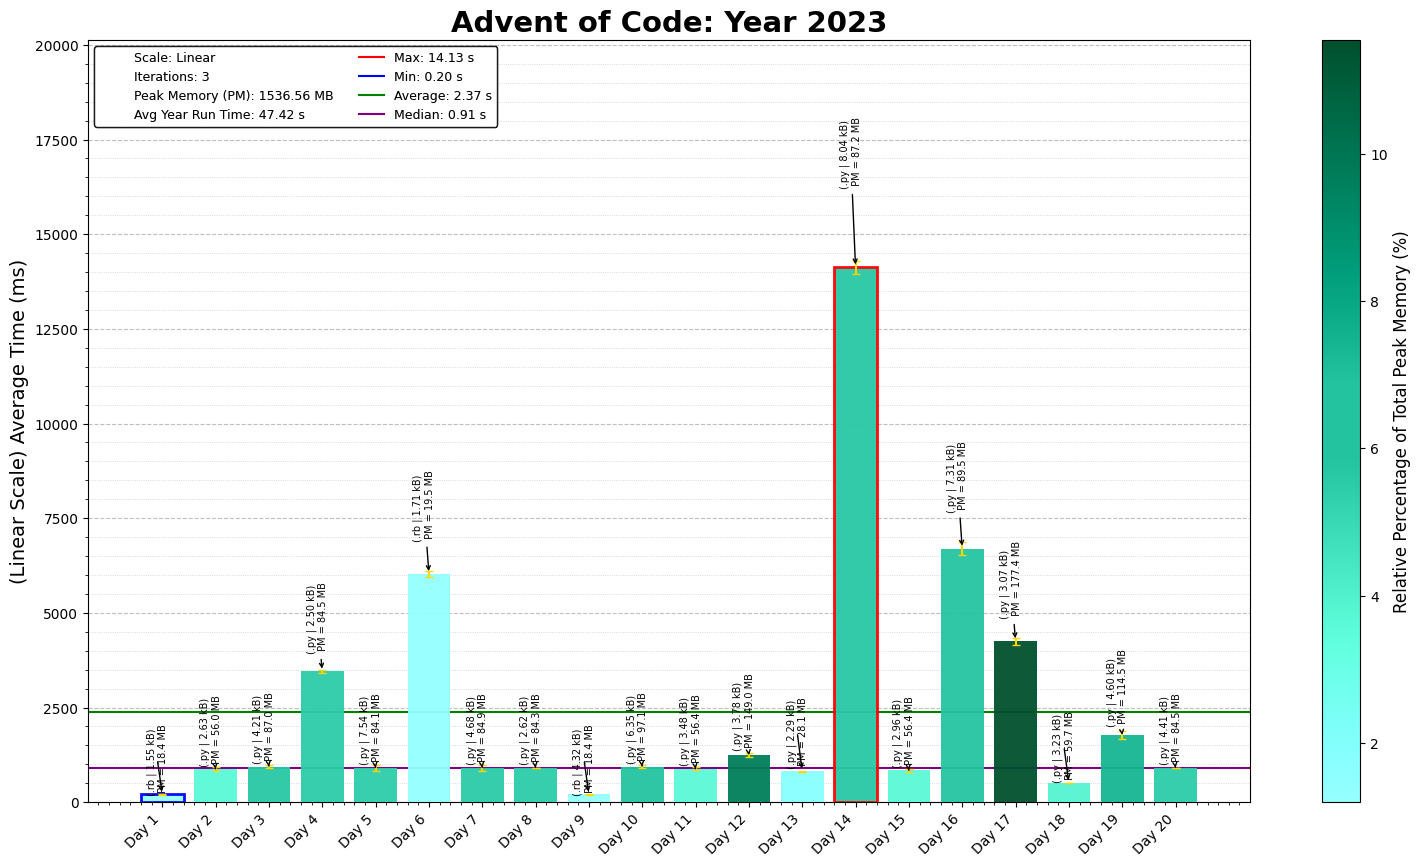
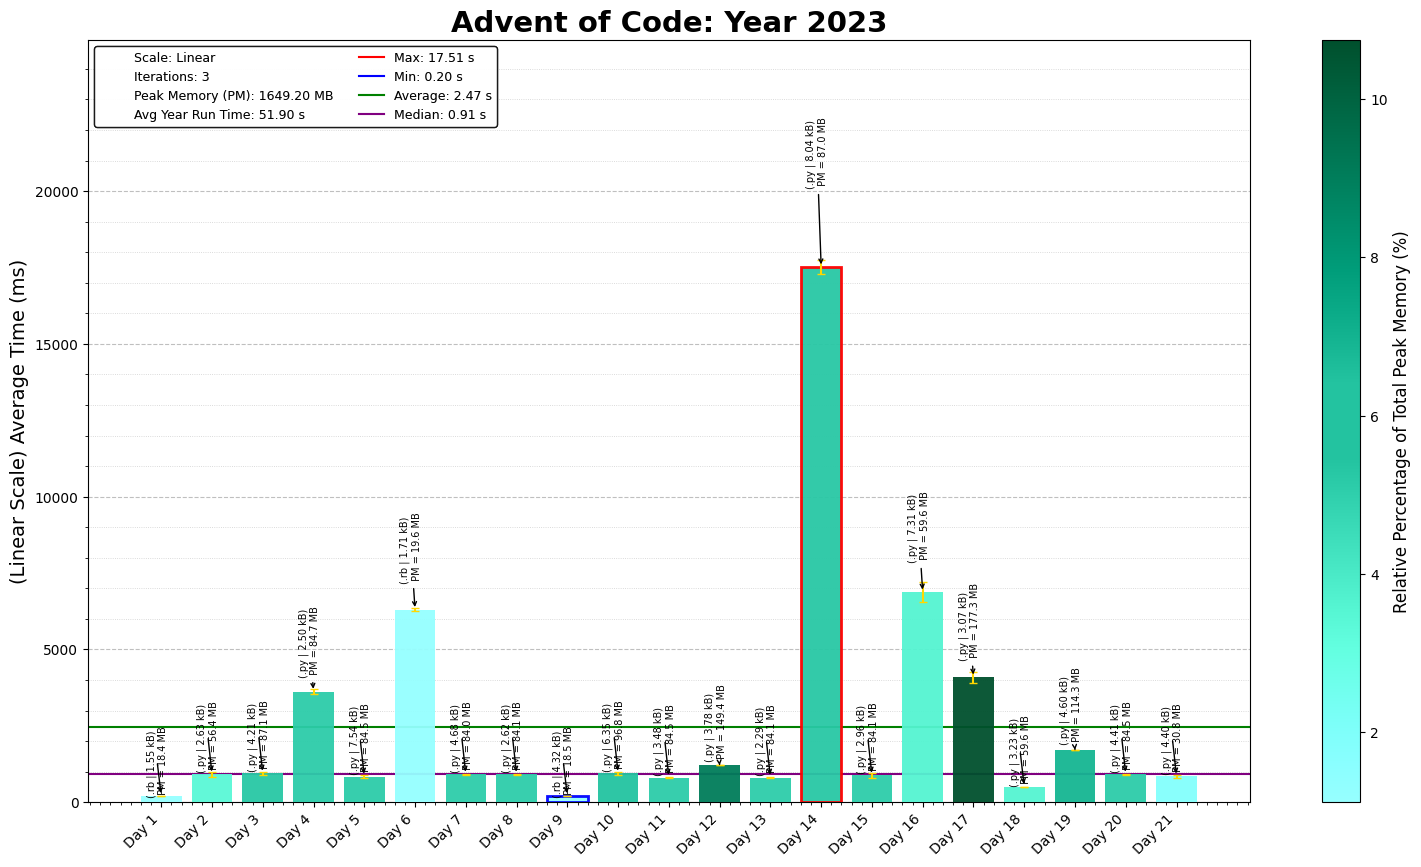
2023 Day 21 P1

diff --git a/2023/21/2023Day21.py b/2023/21/2023Day21.py
@@ -1,0 +1,130 @@
+"""Advent of Code - Day 21, Year 2023
+Solution Started: Jan 11, 2025
+Puzzle Link: https://adventofcode.com/2023/day/21
+Solution by: abbasmoosajee07
+Brief: [Lost Gardener]
+"""
+
+#!/usr/bin/env python3
+
+import os, re, copy, time
+import numpy as np
+import pandas as pd
+import matplotlib.pyplot as plt
+from collections import deque
+start_time = time.time()
+
+# Load the input data from the specified file path
+D21_file = "Day21_input.txt"
+D21_file_path = os.path.join(os.path.dirname(os.path.abspath(__file__)), D21_file)
+
+# Read and sort input data into a grid
+with open(D21_file_path) as file:
+    input_data = file.read().strip().split('\n')
+
+def parse_grid(init_grid: list) -> tuple[set, tuple]:
+    rocks = set()
+
+    # Initialize boundaries with extreme values
+    min_row, max_row = float('inf'), -float('inf')
+    min_col, max_col = float('inf'), -float('inf')
+
+    # Iterate through the grid to update each tile to dict and update bounds
+    for row_no, row in enumerate(init_grid):
+        for col_no, tile in enumerate(row):
+            if tile == '#':
+                rocks.add((row_no, col_no))
+            elif tile == 'S':
+                start = (row_no, col_no)
+
+            # Update the boundaries
+            min_row = min(min_row, row_no)
+            max_row = max(max_row, row_no)
+            min_col = min(min_col, col_no)
+            max_col = max(max_col, col_no)
+
+    # Define the space bounds
+    grid_bounds = (min_row, max_row + 1, min_col, max_col + 1)
+
+    return rocks, grid_bounds, start
+
+def print_grid(ROCKS: set, grid_bounds: tuple, movements: dict):
+    min_row, max_row, min_col, max_col = grid_bounds
+    grid_list = []
+
+    for row_no in range(min_row, max_row):
+        row = ''
+        for col_no in range(min_col, max_col):
+            pos = (row_no, col_no)
+
+            if pos in ROCKS:
+                row += '#'
+            elif pos in movements.keys():
+                row += movements[pos]
+            else:
+                row += '.'
+
+        grid_list.append(row)
+
+    # Print grid
+    print("\nCurrent Grid:")
+    for row in grid_list:
+        print("".join(row))
+    print()
+
+def build_graph(ROCKS_SET: set[tuple], BOUNDARIES: tuple):
+    def get_neighbors(init_pos: tuple) -> set:
+        DIRECTIONS = [(-1, 0), (1, 0), (0, -1), (0, 1)]
+        neighbors = set()
+        init_row, init_col = init_pos
+        for dr, dc in DIRECTIONS:
+            next_row, next_col = init_row + dr, init_col + dc
+            if (
+                MIN_ROW <= next_row < MAX_ROW and
+                MIN_COL <= next_col < MAX_COL and
+                (next_row, next_col) not in ROCKS_SET
+            ):
+                neighbors.add((next_row, next_col))
+        return neighbors
+    graph_network = {}
+    MIN_ROW, MAX_ROW, MIN_COL, MAX_COL = BOUNDARIES
+    for row in range(MIN_ROW, MAX_ROW):
+        for col in range(MIN_COL, MAX_COL):
+            pos = (row, col)
+            neighbors = get_neighbors(pos)
+            graph_network[pos] = neighbors
+    return graph_network
+
+def traverse_garden(garden_graph: dict, start: tuple, target_steps: int = 64) -> dict:
+    visited = set()
+    queue = deque([(start, 0)])  # Use deque for efficient queue operations
+    possible_plants = {start: 'S'}
+
+    while queue:
+        current_pos, steps = queue.popleft()
+        if steps == target_steps:
+            break
+
+        steps += 1
+        visited.add(current_pos)
+        # Get the valid neighboring positions (plants) from the garden graph
+        neighbor_plants = garden_graph.get(current_pos, [])
+
+        for plant_pos in neighbor_plants:
+            if plant_pos not in visited:
+                visited.add(plant_pos)
+                queue.append((plant_pos, steps))
+                # Increment total for every even step
+                if steps % 2 == 0:
+                    possible_plants[plant_pos] = 'O'
+    return possible_plants
+
+test_input = ['...........', '.....###.#.', '.###.##..#.', '..#.#...#..', '....#.#....', '.##..S####.', '.##..#...#.', '.......##..', '.##.#.####.', '.##..##.##.', '...........']
+
+ROCKS_SET, BOUNDARIES, start_pos = parse_grid(input_data)
+garden_graph = build_graph(ROCKS_SET, BOUNDARIES)
+plants_reached = traverse_garden(garden_graph, start_pos)
+print("Part 1:", len(plants_reached))
+
+# print_grid(ROCKS_SET, BOUNDARIES, plants_reached)
+# print(f"Execution Time = {time.time() - start_time:.5f}")
